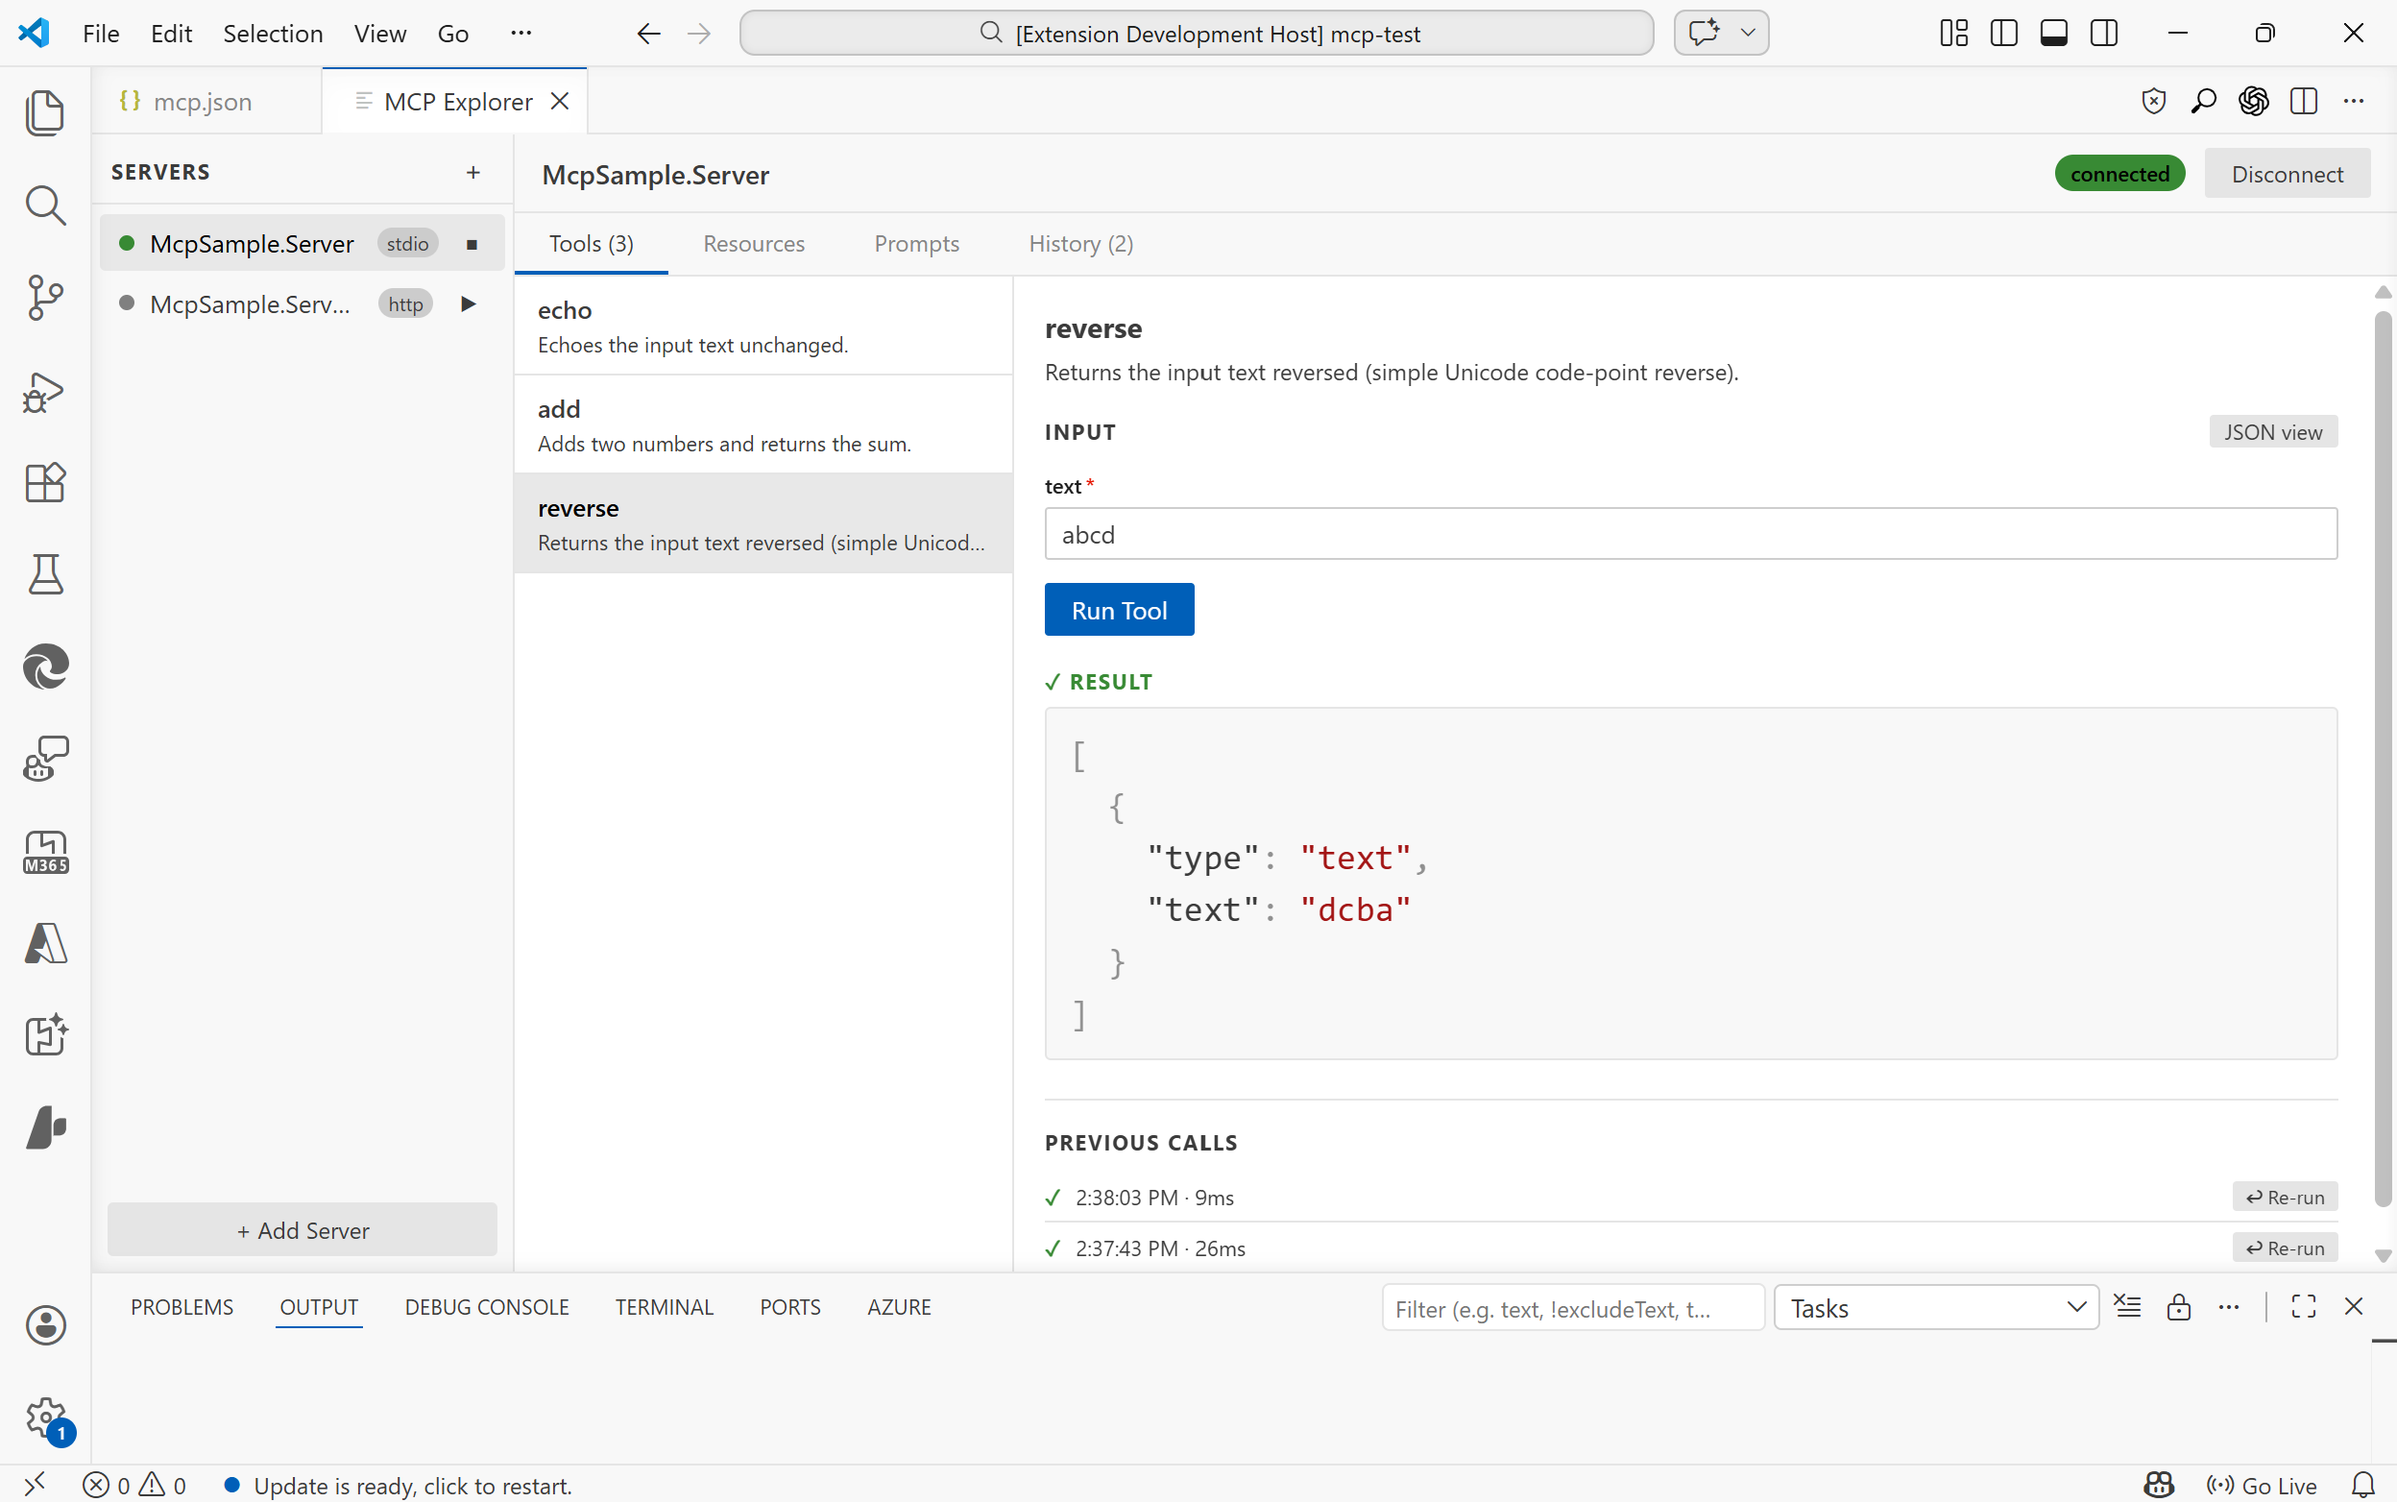
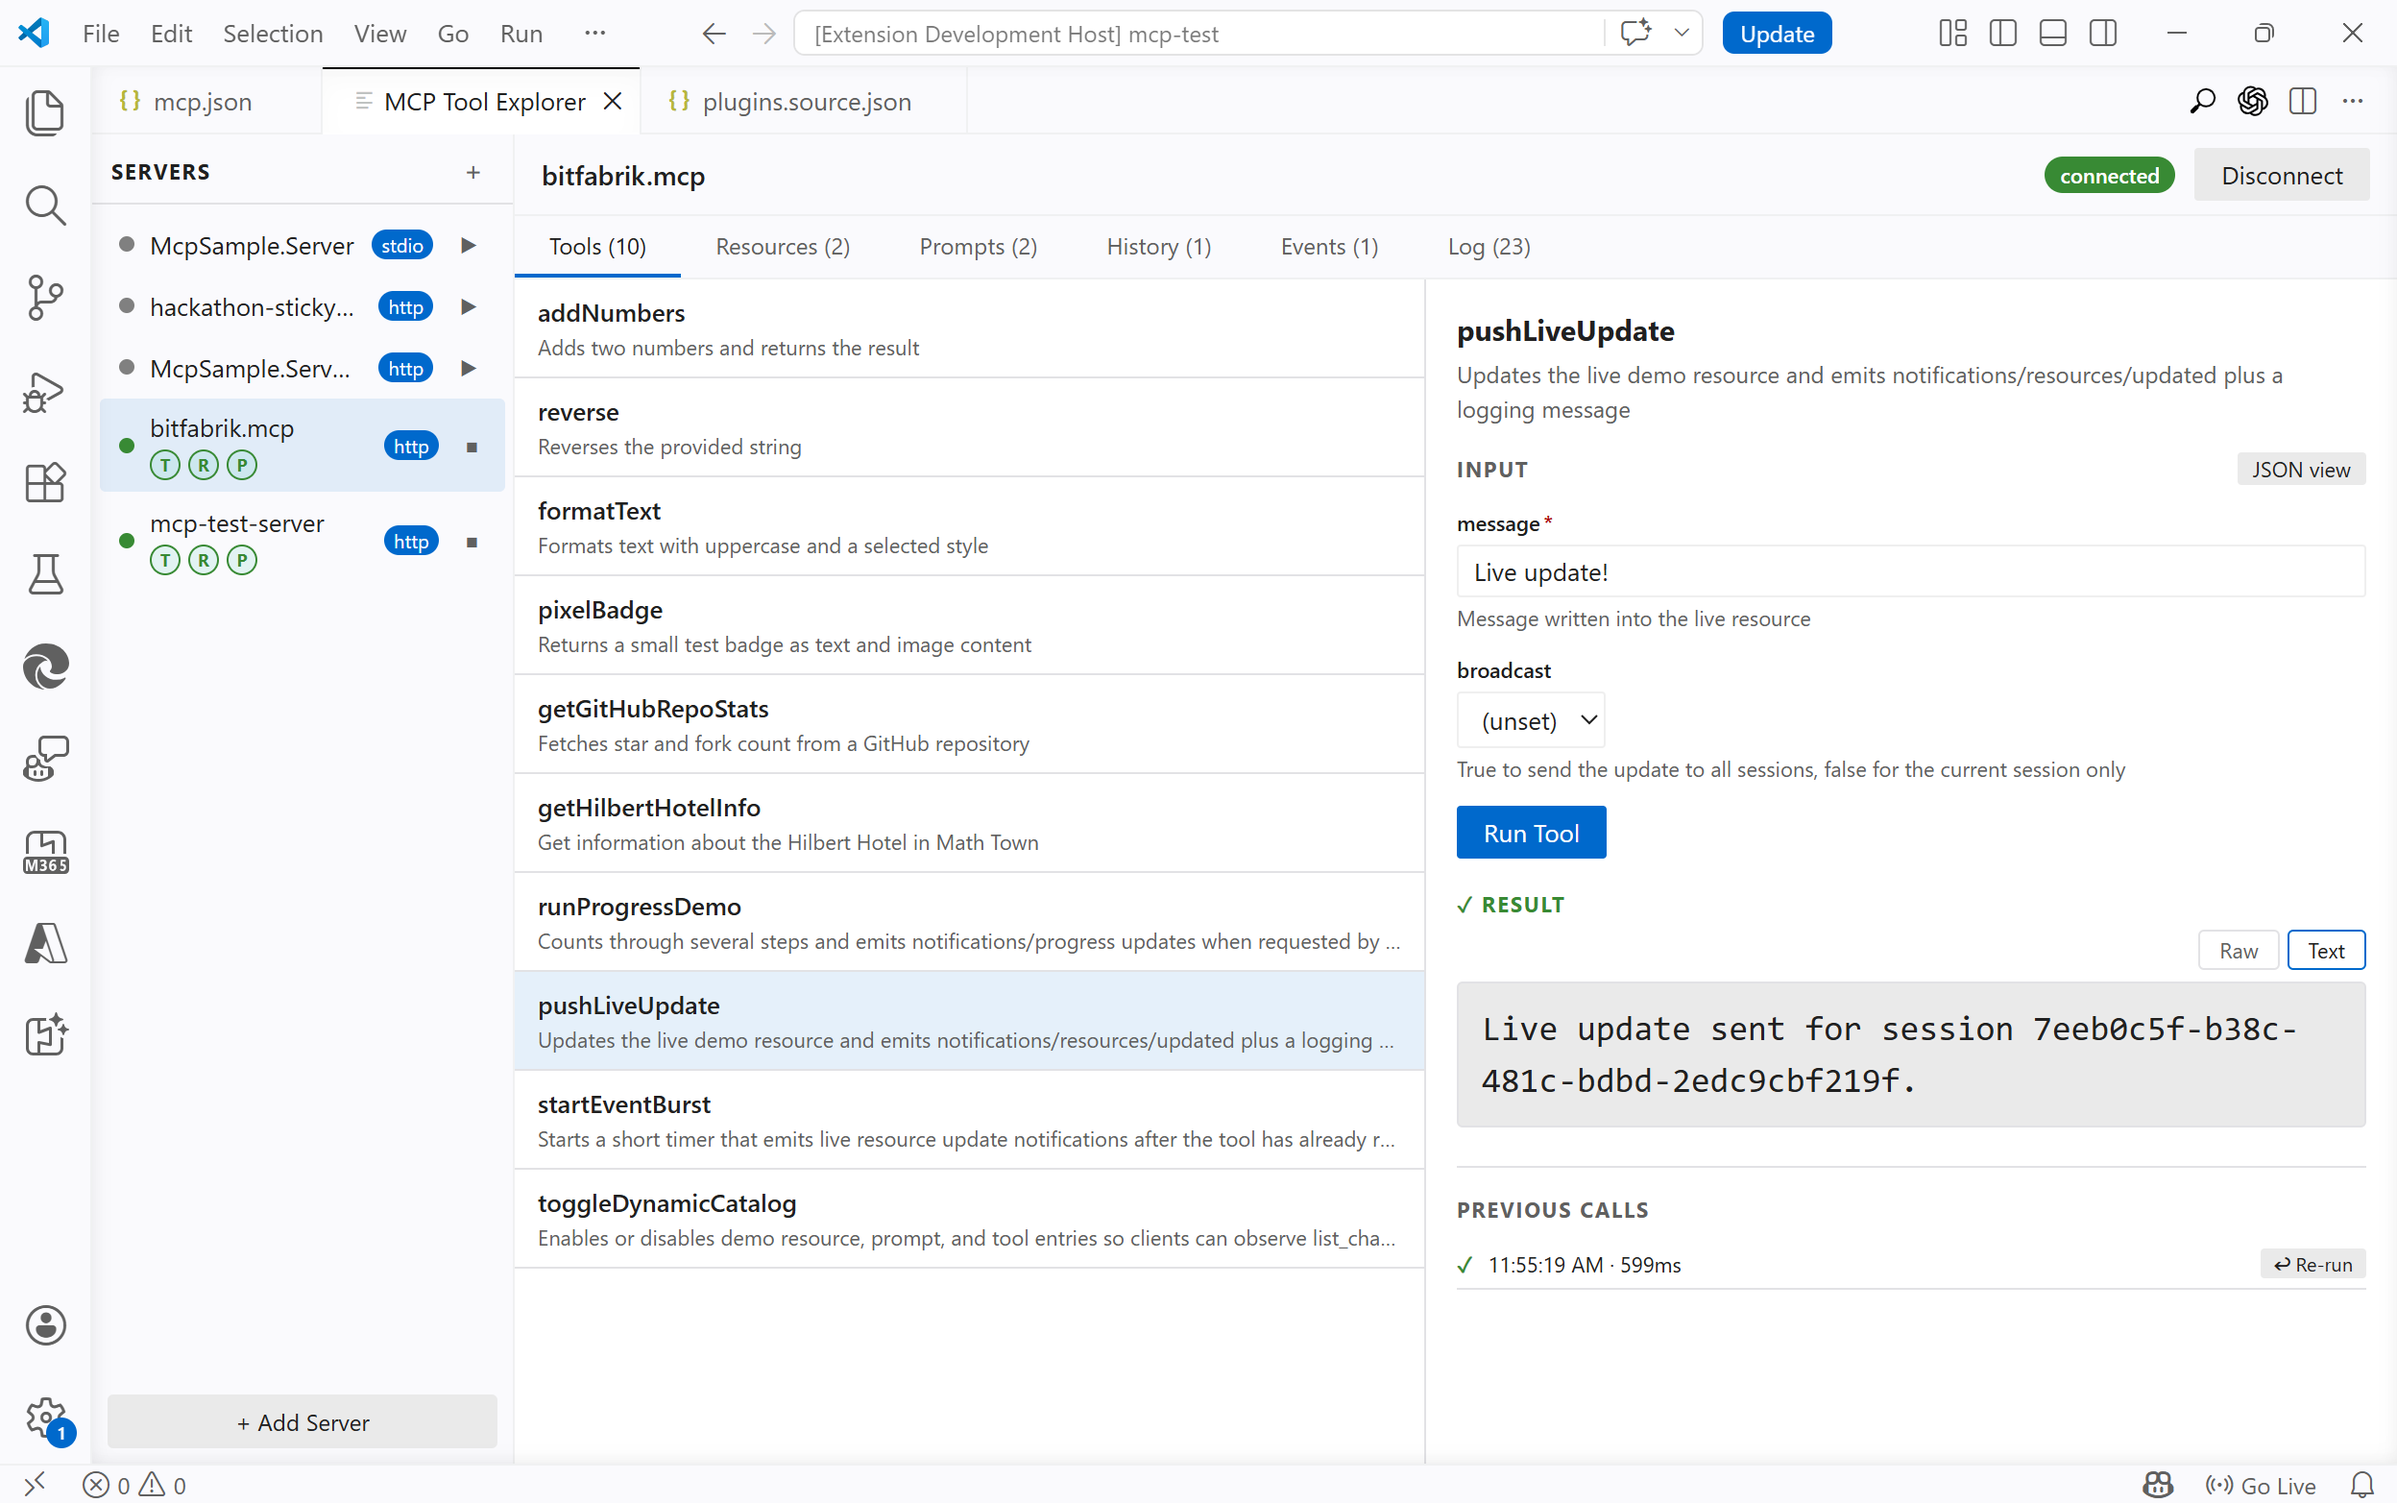
update screenshot and readme

diff --git a/README.md b/README.md
@@ -2,11 +2,11 @@
 
 A VS Code extension for inspecting and testing [Model Context Protocol (MCP)](https://modelcontextprotocol.io) servers, directly inside your editor.
 
-Connect to any MCP server, browse its capabilities, call tools with live input forms, read resources, and render prompts. All without leaving your editor.
+Connect to any MCP server, browse its capabilities, call tools with live input forms, read resources, render prompts, inspect notifications, and review connection traffic. All without leaving your editor.
 
 <br />
 
-![MCP Tool Explorer screenshot](https://github.com/jurgen178/mcp-tool-explorer/blob/main/mcp-tool-explorer.png?raw=true)
+![MCP Tool Explorer screenshot](https://github.com/jurgen178/mcp-tool-explorer/blob/main/doc/mcp-tool-explorer.png?raw=true)
 
 <br />
 
@@ -38,6 +38,7 @@ Connect to any MCP server, browse its capabilities, call tools with live input f
 - **Auto-discovery** — automatically finds servers defined in `.vscode/mcp.json` or the `mcp.servers` workspace setting
 - **Manual registration** — add any server on the fly via the Add Server dialog
 - **All three transports** — `stdio`, SSE, and Streamable HTTP
+- **Capability indicators** — connected servers show at a glance whether they currently expose tools, resources, and prompts
 
 ### Tools
 - Browse all tools exposed by a server with their descriptions and parameter schemas
@@ -49,14 +50,25 @@ Connect to any MCP server, browse its capabilities, call tools with live input f
 ### Resources
 - List all resources and read their contents
 - Results rendered with syntax highlighting
+- Resource list updates can be refreshed automatically when the server emits `notifications/resources/list_changed`
 
 ### Prompts
 - Browse and render prompts with argument input support
+- Prompt list updates can be refreshed automatically when the server emits `notifications/prompts/list_changed`
+
+### Notifications & Events
+- A dedicated **Events** tab shows incoming server notifications such as logging messages, progress updates, resource updates, and list-change notifications
+- Related notifications can be visually grouped when they originate from the same server-side activity
+- Streamable HTTP servers can surface server-initiated events, including out-of-band notifications over the standalone SSE stream
 
 ### Request History
 - A dedicated **History** tab records every tool call, resource read, and prompt render
 - See timestamp, duration, status (success / error), and expand to inspect the request arguments and response
 - Re-run any past tool call directly from the timeline
+
+### Connection Diagnostics
+- A dedicated **Log** tab records MCP transport activity for troubleshooting
+- For HTTP-based servers, request and response details are captured to help diagnose initialization, fallback, auth, and notification-delivery issues
 
 ### JSON Viewer
 - Syntax-highlighted JSON output (keys, strings, numbers, booleans, nulls each in distinct colours)
@@ -145,7 +157,9 @@ webview-ui/
       ToolsPanel.tsx        # Tools tab
       ResourcesPanel.tsx    # Resources tab
       PromptsPanel.tsx      # Prompts tab
+      EventsPanel.tsx       # Notifications and events tab
       HistoryPanel.tsx      # History timeline tab
+      ConnectionLogPanel.tsx # Transport and connection log tab
       JsonViewer.tsx        # Syntax-highlighted JSON renderer
       AddServerModal.tsx    # Add Server dialog
 ```
